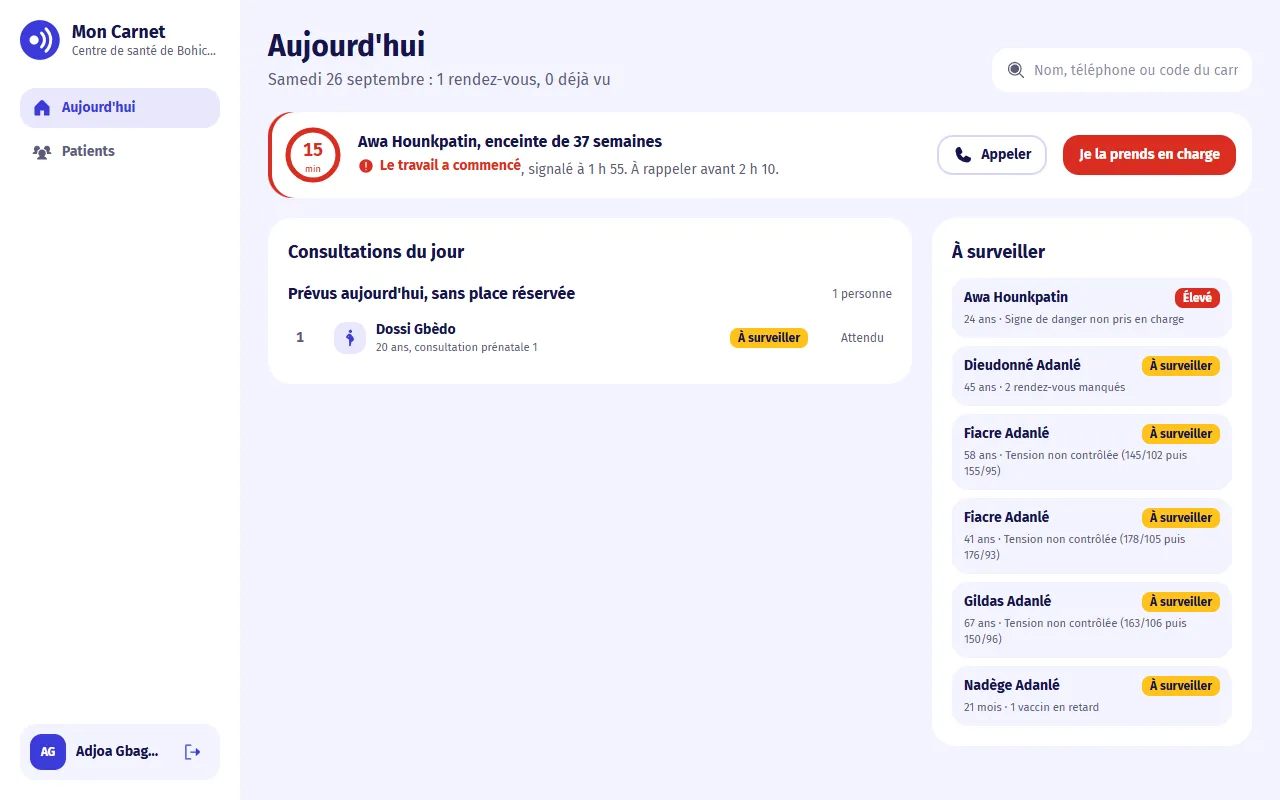
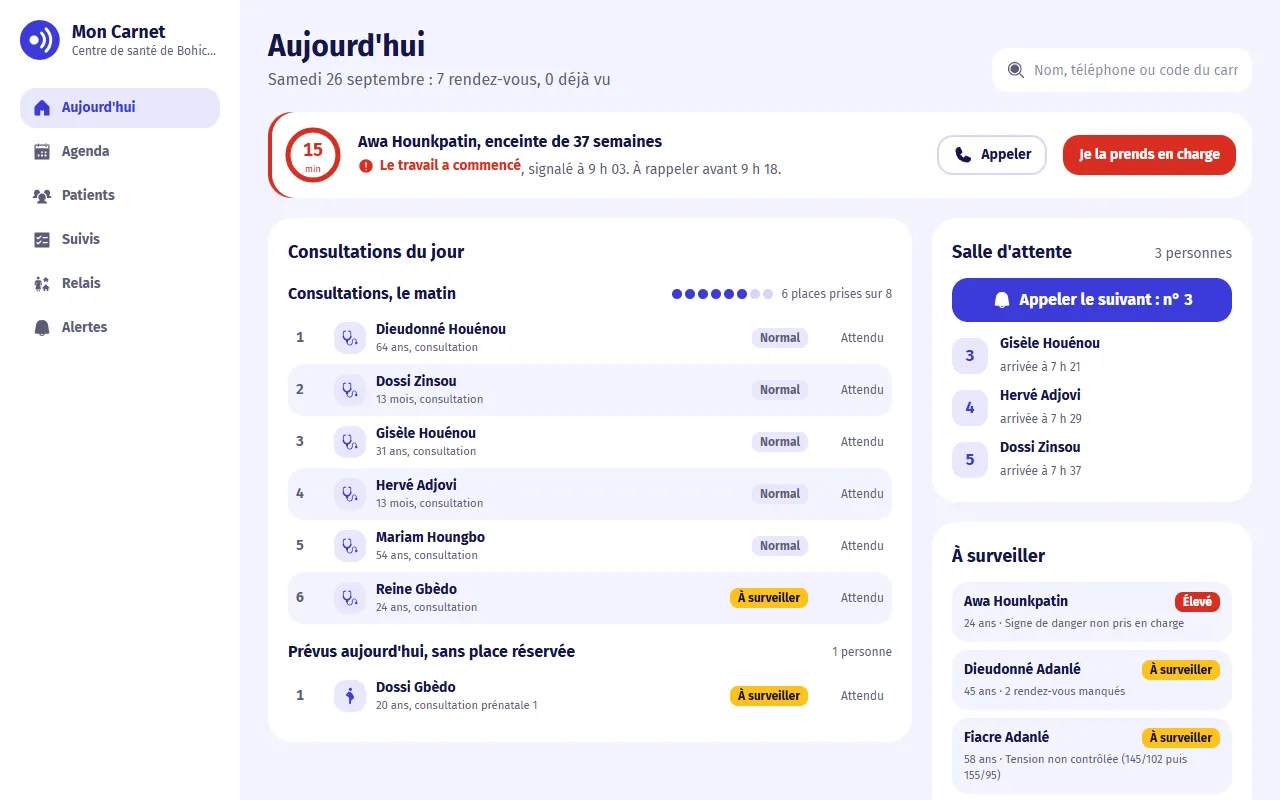
docs(présentation): le poste de travail et le pilotage complets
README et page Découvrir : agenda, listes de suivi et consignes au relais,
relais et alertes du centre, historique et ruptures de la pharmacie ;
centres et relais, fiches de zone et exports pour l'État. Nouvelles
captures, et les anciennes refaites avec les nouveaux menus.

diff --git a/src/app/decouvrir/page.tsx b/src/app/decouvrir/page.tsx
@@ -92,6 +92,13 @@ const CONSTAT: { chiffre: string; texte: string; source: string }[] = [
   { chiffre: "38 %", texte: "des abonnements mobiles sont encore en 2G ; la 4G ne couvre que 63 % des zones rurales.", source: "ARCEP Bénin (2025)" },
 ];
 
+const POSTE: { icone: NomIcone; titre: string; texte: string }[] = [
+  { icone: "ph-calendar-dots", titre: "Agenda", texte: "Les plages des 7 jours, les places prises et la liste d'attente ; une place de plus, « Donner la place », une plage à ouvrir." },
+  { icone: "ph-list-checks", titre: "Suivis", texte: "Grossesses par terme, vaccins en retard, tensions trop hautes, perdus de vue : qui relancer aujourd'hui." },
+  { icone: "hi-community-healthworker", titre: "Relais et alertes", texte: "Les visites à orienter d'abord, les notes vocales ; l'historique des alertes et le délai de 15 minutes." },
+  { icone: "ph-package", titre: "Pharmacie", texte: "Délivrer par le code, l'historique des délivrances, les ruptures que les soignants voient avant de prescrire." },
+];
+
 const PRINCIPES: { icone: NomIcone; titre: string; texte: string }[] = [
   { icone: "ph-speaker-high", titre: "Tout s'écoute", texte: "Chaque carte, chaque conseil, chaque posologie se lit à voix haute : on n'a pas besoin de savoir lire." },
   { icone: "ph-list-checks", titre: "Un pictogramme et un mot", texte: "Les signes de danger, les moments de prise et les motifs de rendez-vous sont dessinés." },
@@ -302,6 +309,33 @@ export default function PageDecouvrir() {
                 </li>
               </ul>
             </div>
+            <div className="grid gap-6">
+              <div className="max-w-3xl">
+                <h3 className="text-2xl font-bold">Un vrai poste de travail</h3>
+                <p className="mt-1 text-gris">Au centre et à la pharmacie, chaque menu répond à une question de tous les jours.</p>
+              </div>
+              <ul className="grid gap-4 sm:grid-cols-2 lg:grid-cols-4">
+                {POSTE.map((p) => (
+                  <li key={p.titre} className="flex flex-col gap-2 rounded-carte bg-lavande p-4">
+                    <Icone nom={p.icone} className="size-7 text-marque" />
+                    <b>{p.titre}</b>
+                    <p className="text-sm text-gris">{p.texte}</p>
+                  </li>
+                ))}
+              </ul>
+              <div className="grid gap-8 lg:grid-cols-2">
+                <Navigateur
+                  src="soignant-agenda"
+                  alt="Agenda du centre sur 7 jours : 65 places prises sur 144, 2 plages complètes, 5 personnes en attente, et le formulaire « Ouvrir une plage »"
+                  legende="L'agenda : places prises, plages complètes, liste d'attente ; une plage de plus en un geste."
+                />
+                <Navigateur
+                  src="soignant-suivis"
+                  alt="Suivis : 17 grossesses, 12 vaccins, 40 tensions, 10 perdus de vue ; « Confier au relais » ouvert pour Rose Tossou"
+                  legende="Les listes de suivi : appeler, ouvrir le dossier ou confier une visite au relais."
+                />
+              </div>
+            </div>
           </div>
         </section>
 
@@ -314,12 +348,14 @@ export default function PageDecouvrir() {
               </h2>
               <p className="mt-2 text-lg text-lavande-3">Les agents de la zone sanitaire et le ministère voient les mêmes indicateurs, à leur échelle, sans jamais une personne.</p>
             </div>
-            <ul className="grid gap-4 sm:grid-cols-2 lg:grid-cols-4">
+            <ul className="grid gap-4 sm:grid-cols-2 lg:grid-cols-3">
               {[
                 { icone: "ph-heartbeat" as NomIcone, texte: "Calculés en direct depuis les carnets : 4ᵉ consultation, naissances au centre, vaccins, tension, alertes." },
                 { icone: "ph-shield-check" as NomIcone, texte: "Un chiffre qui porte sur moins de 5 personnes est masqué, à l'écran comme dans l'export." },
                 { icone: "ph-chart-line-up" as NomIcone, texte: "Tendance sur 6 mois, classement des zones et zones à appuyer pour le ministère." },
-                { icone: "ph-download-simple" as NomIcone, texte: "Export au format DHIS2, pour rejoindre le système national d'information sanitaire." },
+                { icone: "hi-ambulatory-clinic" as NomIcone, texte: "Centre par centre : consultations, attente en salle, délai des alertes ; relais par relais : foyers visités." },
+                { icone: "ph-map-trifold" as NomIcone, texte: "Pour le ministère, une fiche par zone sanitaire, et les alertes prises à temps zone par zone." },
+                { icone: "ph-download-simple" as NomIcone, texte: "Exports au format DHIS2 (mois, 6 mois, centres), pour rejoindre le système national d'information sanitaire." },
               ].map((p) => (
                 <li key={p.texte} className="flex flex-col gap-2 rounded-carte bg-white/5 p-4">
                   <Icone nom={p.icone} className="size-7 text-soleil" />
@@ -327,7 +363,7 @@ export default function PageDecouvrir() {
                 </li>
               ))}
             </ul>
-            <div className="grid gap-8 lg:grid-cols-2">
+            <div className="grid gap-8 lg:grid-cols-3">
               <Navigateur
                 src="pilotage-zone"
                 alt="Pilotage de la zone sanitaire Zogbodomey-Bohicon-Zakpota : 4ᵉ consultation 61 %, naissances au centre 95 %, Penta3 86 %, avec les objectifs"
@@ -338,6 +374,12 @@ export default function PageDecouvrir() {
                 src="pilotage-ministere"
                 alt="Vue nationale du ministère : classement des zones sanitaires pour le vaccin Penta3, tendance nationale et zones à appuyer"
                 legende="Le ministère : toutes les zones, la tendance nationale, les zones à appuyer (données fictives)."
+                sombre
+              />
+              <Navigateur
+                src="pilotage-centres"
+                alt="Centres et relais de la zone : le centre de santé de Bohicon (consultations, 59 minutes d'attente, 12 minutes pour prendre une alerte) et le relais Koffi (8 foyers, 17 visites)"
+                legende="Centre par centre et relais par relais : l'activité du mois, sans aucun nom de patient."
                 sombre
               />
             </div>

diff --git a/README.md b/README.md
@@ -54,12 +54,18 @@ Ouvrez https://moncarnet.kheios.com/demo : un clic entre dans un compte.
 ## Poste soignant et pharmacie
 
 - **Aujourd'hui** : les alertes en haut avec leur compte à rebours de 15 minutes (une alerte en retard est marquée, et remonte à la zone sanitaire) et « Je la prends en charge » (un seul soignant la prend) ; les consultations du jour par plage, avec le risque de chacun et le tampon « VU » pour les personnes déjà vues ; les patients à surveiller. La page se met à jour seule.
+- **Agenda** : les plages des 7 jours à venir, avec les places prises, les plages complètes et la liste d'attente. Dans une plage : les personnes inscrites, celles qui attendent, une place de plus ou de moins (jamais sous le nombre d'inscrits) et « Donner la place » à une personne qui attend. « Ouvrir une plage » ajoute un samedi de vaccination ou une matinée de rattrapage.
+- **Suivis** : les listes de travail du centre. Grossesses du terme le plus proche au plus lointain, vaccins en retard ou à faire dans la semaine, tensions trop hautes ou contrôles manqués, perdus de vue. Chaque ligne permet d'appeler, d'ouvrir le dossier ou de **confier une visite au relais** : la consigne entre dans sa tournée jusqu'à sa prochaine visite.
+- **Relais** : les visites des 30 derniers jours, celles « à orienter » d'abord, les notes vocales à écouter, et le suivi des visites confiées.
+- **Alertes** : l'historique des signes de danger avec leur délai de prise en charge et qui les a prises, le délai moyen et la part prise en 15 minutes.
 - **Retrouver un patient** par son nom (sans accent), son numéro ou le code écrit dans son carnet. Un soignant ne voit que les patients de son centre.
 - **Dossier** : risque et motifs (règles de la spec, valeurs indicatives), étapes des programmes, relevés, ordonnances avec leur délivrance.
 - **Déclarer la naissance** (sage-femme) : heure, lieu, voie basse ou césarienne, sexe, poids (« 3,2 » ou « 3200 »), vaccins de naissance ; une seule fois par grossesse.
 - **Consultation** : tension, glycémie, poids, hémoglobine ; le risque est recalculé tout de suite (180/110 : risque élevé). Un vaccin fait coche l'étape dans le carnet de l'enfant.
-- **Ordonnance** : comprimés matin, midi et soir, durée, en mots simples ; un code de 6 caractères à donner au patient, qui le retrouve aussi dans son carnet.
+- **Ordonnance** : comprimés matin, midi et soir, durée, en mots simples ; un code de 6 caractères à donner au patient, qui le retrouve aussi dans son carnet. Les ruptures signalées par les pharmacies s'affichent au-dessus du formulaire.
 - **Pharmacie** : le code suffit ; la pharmacie voit l'ordonnance, jamais le dossier. Posologie dessinée, écoute de la posologie, délivrance une seule fois : le tampon apparaît chez le soignant et les prises dans le carnet du patient. Code de démonstration : `M4R2TN`.
+- **Historique de la pharmacie** : les délivrances des 30 derniers jours (code et initiales seulement) et les médicaments les plus délivrés.
+- **Ruptures de stock** : la pharmacie signale ce qui manque et dit quand il revient ; les soignants le voient avant de prescrire.
 
 ## Relais hors ligne
 
@@ -74,7 +80,11 @@ Ouvrez https://moncarnet.kheios.com/demo : un clic entre dans un compte.
 
 - **Agents de l'État, zone sanitaire Zogbodomey-Bohicon-Zakpota** : les indicateurs de la zone calculés en direct depuis les carnets, commune par commune. On y lit la 4ᵉ consultation prénatale, les naissances au centre, les vaccins Penta3 et rougeole-rubéole, la tension contrôlée, les alertes prises en charge en moins de 15 minutes et leur délai moyen, les visites des relais et les rendez-vous manqués. S'y ajoutent la tendance sur 6 mois et l'écart avec le mois dernier.
 - **Ministère de la Santé** : la vue nationale. Elle réunit la zone de la démo (en direct) et dix autres zones du pays (**données fictives**, signalées comme telles), le classement des zones par indicateur, la tendance nationale et les zones à appuyer.
-- **Export CSV au format DHIS2** (unité, période, élément, numérateur, dénominateur, valeur).
+- **Indicateurs** : un indicateur à la fois, avec sa définition, son objectif, sa tendance, puis le détail commune par commune (zone) ou zone par zone (ministère).
+- **Centres et relais** (zone) : pour chaque centre, les consultations, l'attente moyenne en salle, les alertes et leur délai, les places des 7 jours à venir ; pour chaque relais, les foyers suivis, les visites et la part des foyers visités.
+- **Alertes** : en direct et semaine par semaine pour la zone, centre par centre ; zone par zone pour le ministère.
+- **Zones** (ministère) : toutes les zones côte à côte, et la fiche de chacune (en direct pour la zone de la démo).
+- **Exports CSV au format DHIS2** (unité, période, élément, numérateur, dénominateur, valeur) : indicateurs du mois, historique sur 6 mois, activité des centres et des relais.
 - **Aucun nom** ne sort du pilotage. Un chiffre qui porte sur moins de 5 personnes est masqué, à l'écran comme dans l'export : la petite commune de Zogbodomey le montre.
 
 ## Administration
